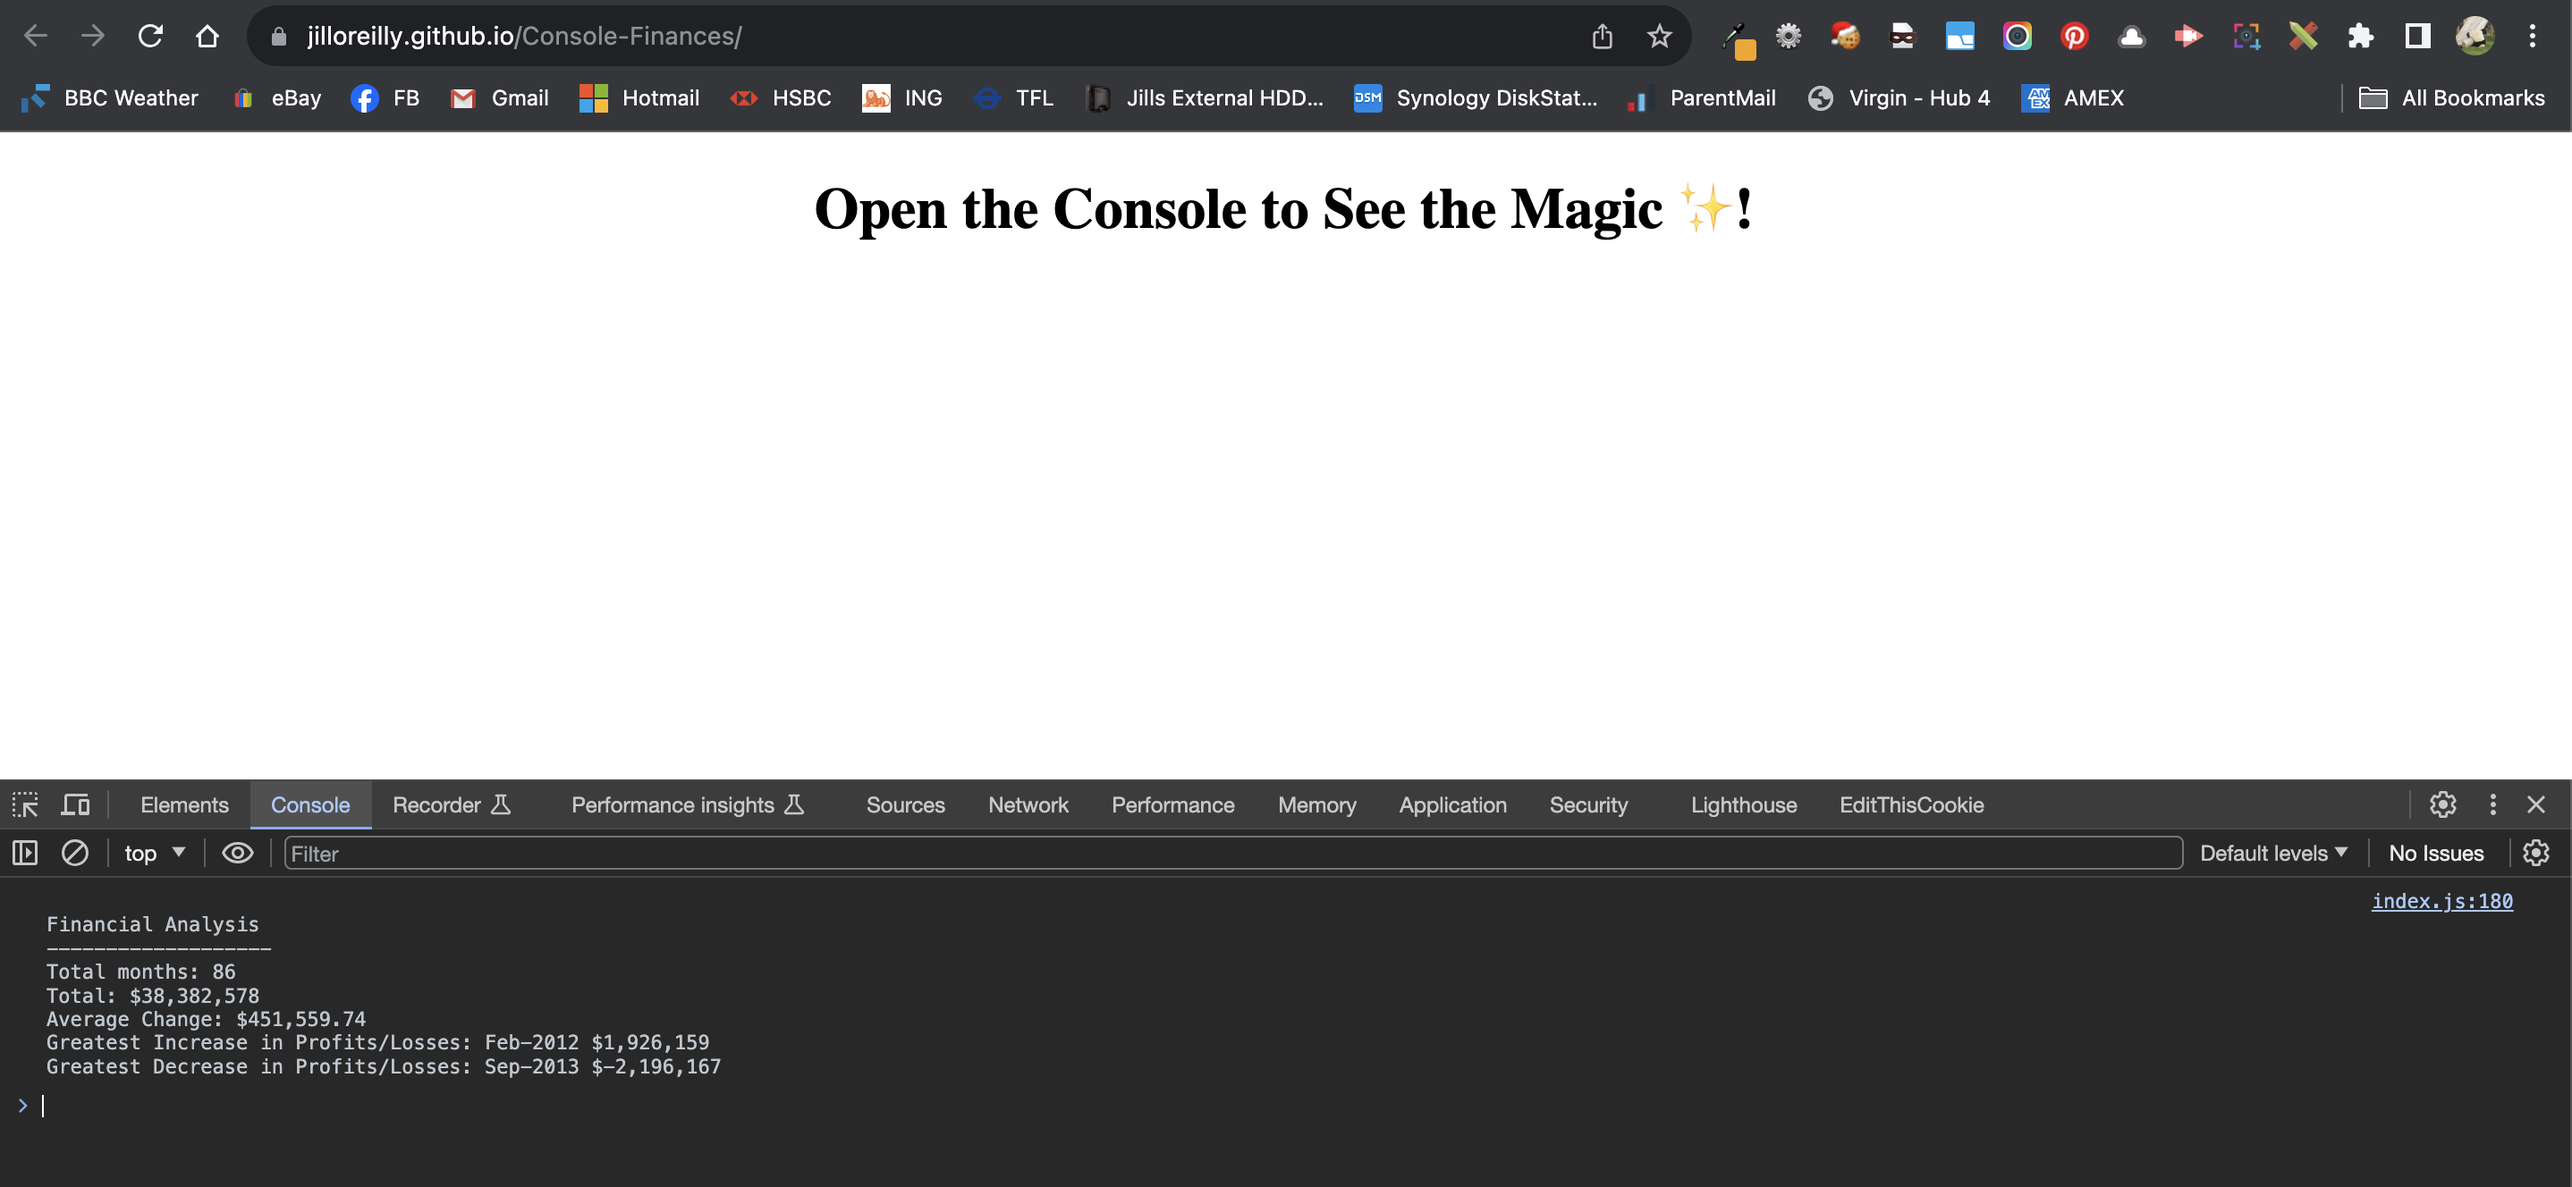
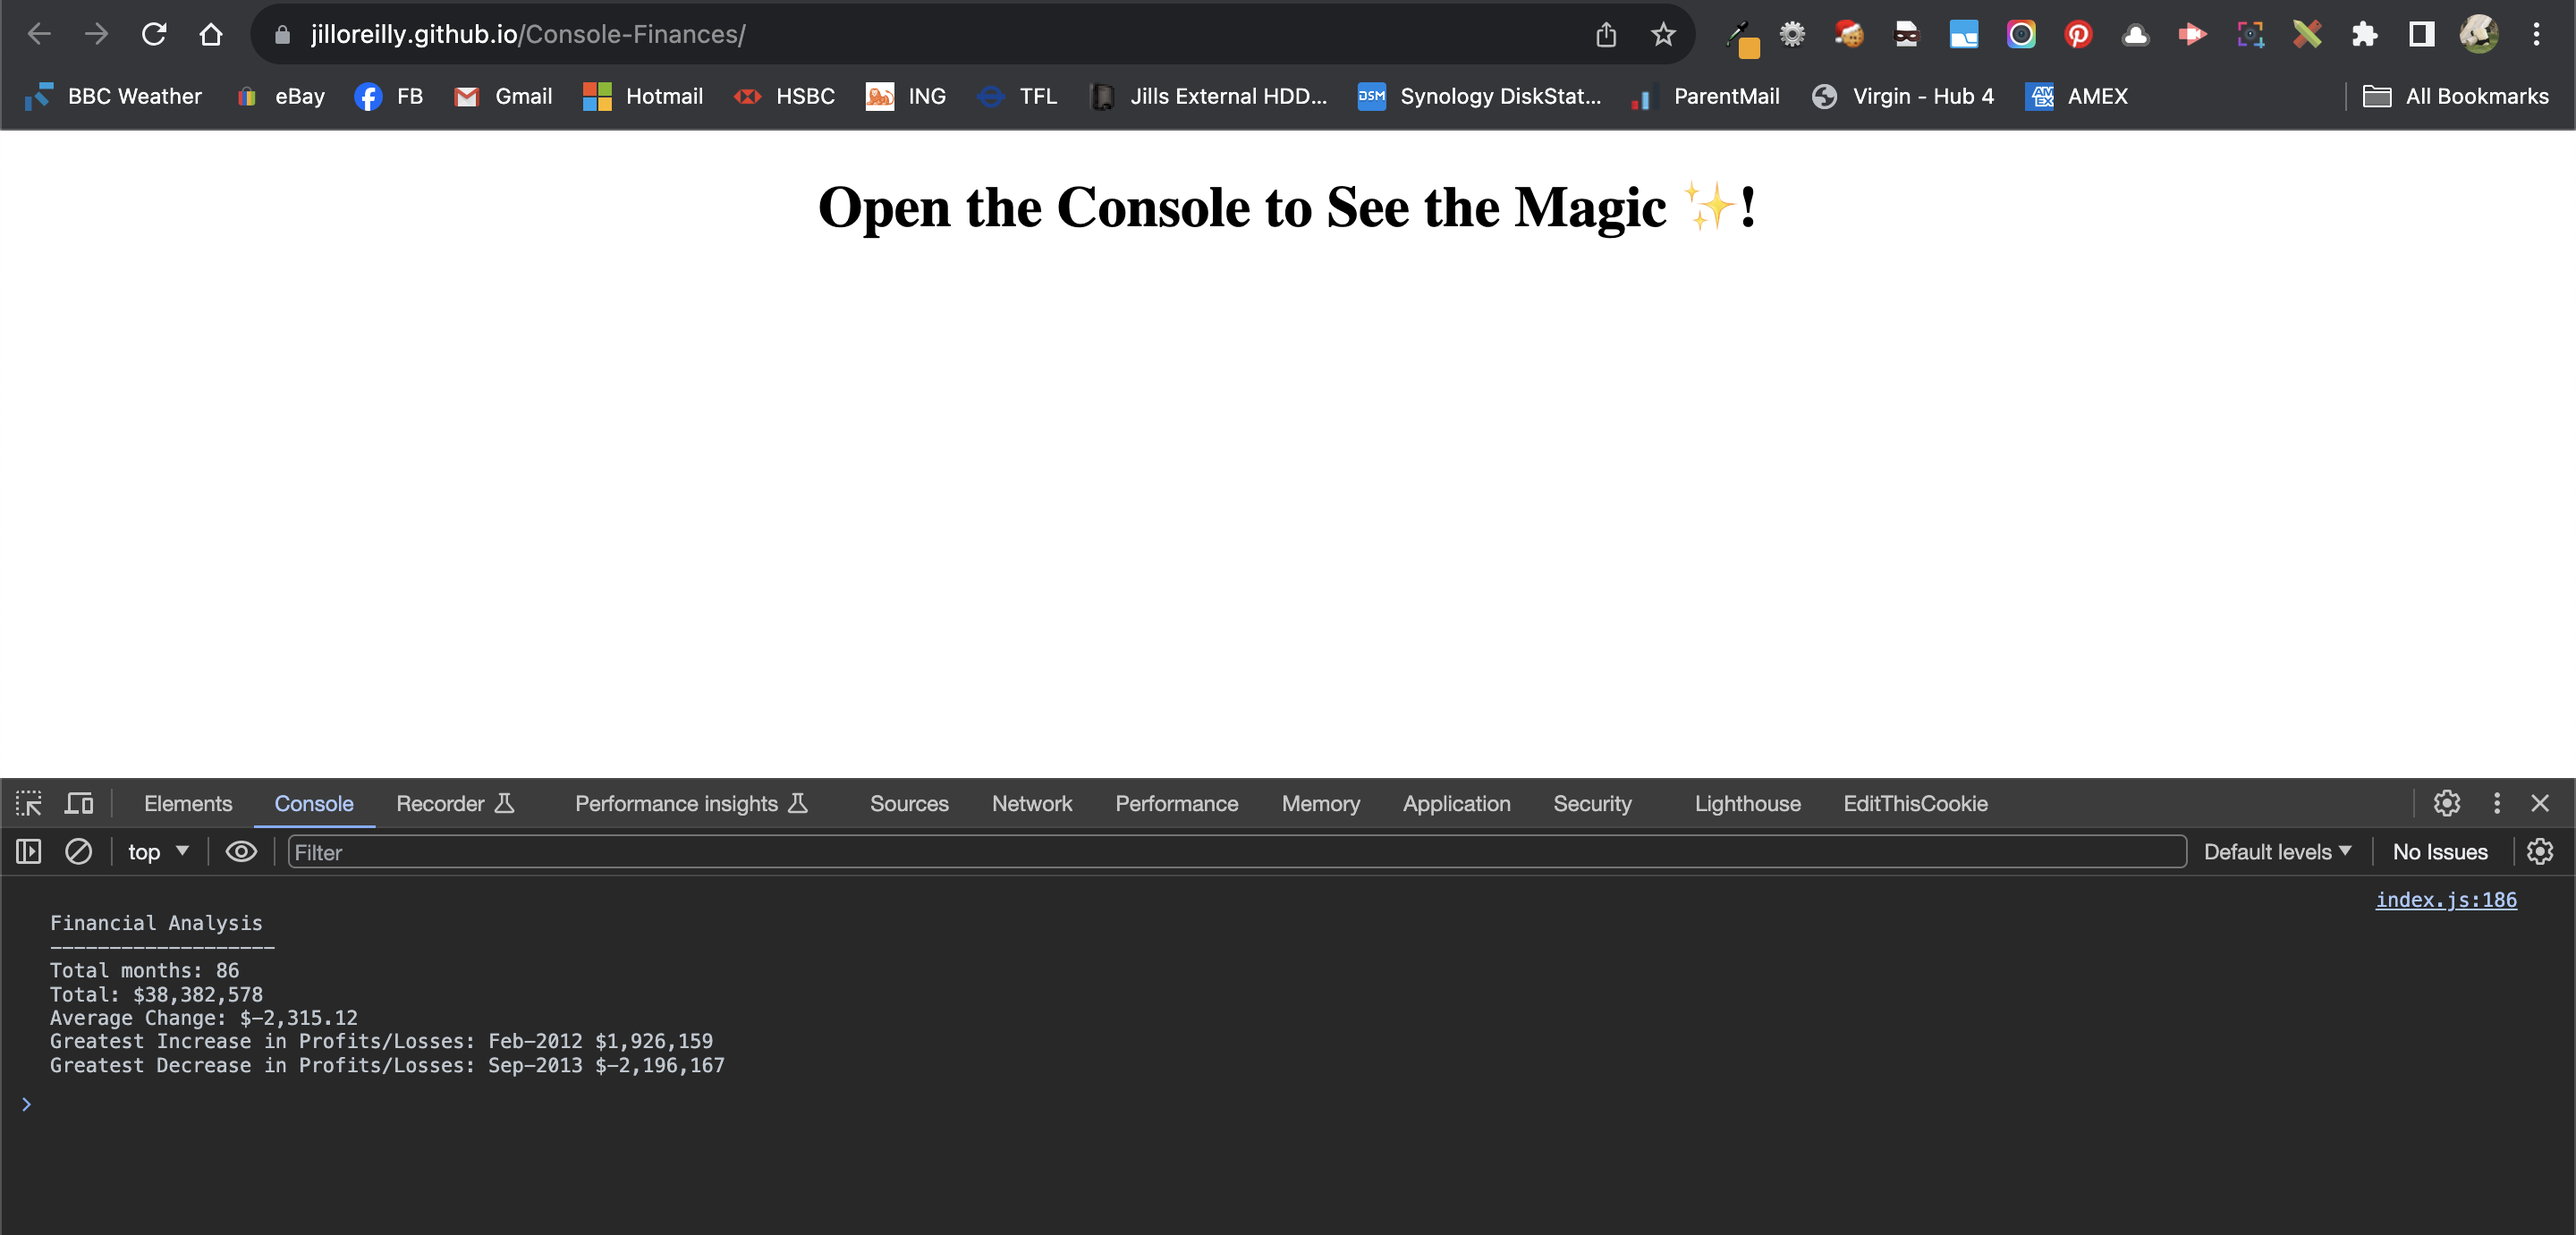
Update console screenshot with new average and update to README file

diff --git a/README.md b/README.md
@@ -3,7 +3,17 @@ Challenge 4 - Javascript - Front-end Web Dev Bootcamp
 
 ## Description
 
-This webpage showcases the Javascript skills I have gained from Module 4 of the Front-end Web Development Bootcamp. Various JavaScript methods have been utilised to analyse the given dataset and the resulting Financial Analysis is output to the console.
+This webpage showcases the Javascript skills I have gained from Module 4 of the Front-end Web Development Bootcamp. Various JavaScript methods have been utilised to analyse the given dataset and the resulting Financial Analysis is output to the console:
+
+* The total number of months included in the dataset.
+
+* The net total amount of Profit/Losses over the entire period.
+
+* The average of the **changes** in Profit/Losses over the entire period.
+  
+* The greatest increase in Profit/Losses (date and amount) over the entire period.
+
+* The greatest decrease in Profit/Losses (date and amount) over the entire period.
 
 
 ## Usage
